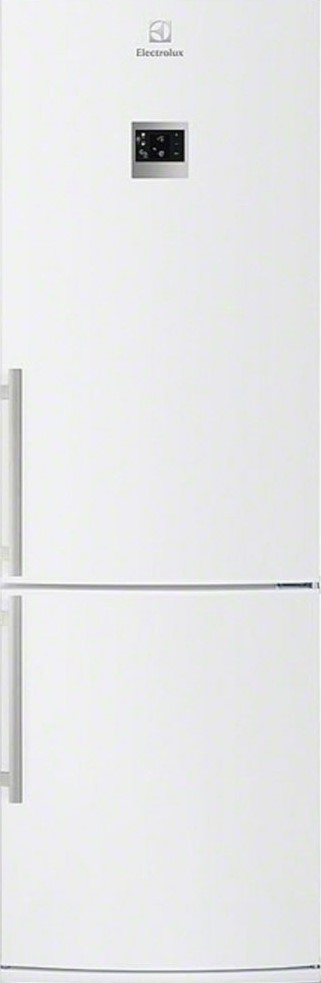
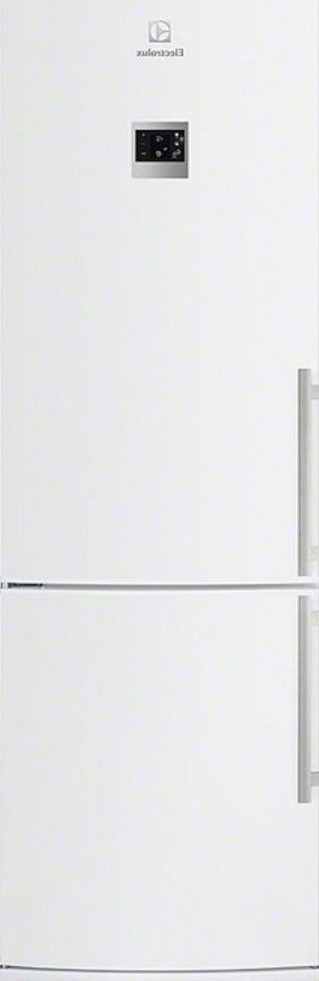
2 варианта размещения кухни

diff --git a/src/index.html b/src/index.html
@@ -38,7 +38,7 @@
             <a-camera id="camera" position="0 0 0"></a-camera>
         </a-entity>
 
-        <a-plane id="floor" rotation="-90 0 0" position="535 0 -325" width="1500" height="1500" material="src: #floorImg; repeat: 100 100"></a-plane>
+        <a-plane id="floor" rotation="-90 0 0" position="535 0 -325" width="1500" height="1500" material="src: #floorImg; repeat: 50 50"></a-plane>
         <!--<a-plane id="ceiling" rotation="-90 0 0" position="0 270 0" width="10000" height="10000" material="color: white"></a-plane>-->
         <a-entity id="rooms" position="0 135 0">
             <a-entity id="hall" position="0 0 0">
@@ -89,27 +89,48 @@
                     <a-image src="#radiator" width="65" height="65" position="0 -95 0"></a-image>
                 </a-entity>
 
-                <a-entity position="0 0 -60">
-                    <!--зазор между стенкой холодильника и стеной сейчас 15см-->
+                <!--Холодильник справа-->
+                <!--столешница 245 см, рабочая зона 105 см (245-60-60-20)-->
+                <!--<a-entity position="0 0 -60">
                     <a-entity geometry="primitive: box; width: 60; depth: 60; height: 180" position="30 -45 -335" material="src: #refrigerator"></a-entity>
-                    <!--дверца холодильника-->
-                    <!--<a-entity geometry="primitive: box; width: 60; depth: 2; height: 180" position="90 -45 -364" material="color: white"></a-entity>-->
                     <a-entity geometry="primitive: box; width: 2; depth: 14.5; height: 180" position="59 -45 -372.75" material="color: white"></a-entity>
                     <a-entity geometry="primitive: box; width: 2; depth: 75; height: 40" position="59 65 -342.5" material="color: white"></a-entity>
                     <a-entity geometry="primitive: box; width: 60; depth: 380; height: 50" position="30 110 -190" material="color: white"></a-entity>
-                    <a-entity geometry="primitive: box; width: 60; depth: 70; height: 220" position="30 -25 -35" material="color: white">
-                        <a-image src="#microwave" width="70" height="40" position="30.5 18 0" rotation="0 90 0"></a-image>
-                        <a-image src="#oven" width="70" height="60" position="30.5 -32 0" rotation="0 90 0"></a-image>
+                    <a-entity geometry="primitive: box; width: 60; depth: 60; height: 220" position="30 -25 -30" material="color: white">
+                        <a-image src="#microwave" width="60" height="40" position="30.5 -10 0" rotation="0 90 0"></a-image>
+                        <a-image src="#oven" width="60" height="60" position="30.5 40 0" rotation="0 90 0"></a-image>
                     </a-entity>
                     <a-entity geometry="primitive: box; width: 16; depth: 60; height: 270" position="52 0 30" material="color: white"></a-entity>
-                    <a-entity geometry="primitive: box; width: 60; depth: 235; height: 80" position="30 -95 -187.75" material="color: white"></a-entity>
-                    <a-entity geometry="primitive: box; width: 63; depth: 235; height: 3" position="30 -54 -187.75" material="color: #cf9a63"></a-entity>
-                    <a-entity geometry="primitive: box; width: 35; depth: 235; height: 75" position="17.5 47 -187.75" material="color: #cf9a63"></a-entity>
-                    <a-entity geometry="primitive: box; width: 60; depth: 235; height: 1" position="30 85 -187.75" material="color: #cf9a63"></a-entity>
-                    <a-entity geometry="primitive: box; width: 60; depth: 1; height: 140" position="30 15 -70" material="color: #cf9a63"></a-entity>
+                    <a-entity geometry="primitive: box; width: 60; depth: 245; height: 80" position="30 -95 -182.75" material="color: white"></a-entity>
+                    <a-entity geometry="primitive: box; width: 63; depth: 245; height: 3" position="30 -54 -182.75" material="color: #cf9a63"></a-entity>
+                    <a-entity geometry="primitive: box; width: 35; depth: 245; height: 75" position="17.5 47 -182.75" material="color: #cf9a63"></a-entity>
+                    <a-entity geometry="primitive: box; width: 60; depth: 245; height: 1" position="30 85 -182.75" material="color: #cf9a63"></a-entity>
+                    <a-entity geometry="primitive: box; width: 60; depth: 1; height: 140" position="30 15 -60" material="color: #cf9a63"></a-entity>
                     <a-entity geometry="primitive: box; width: 60; depth: 1; height: 140" position="30 15 -305" material="color: #cf9a63"></a-entity>
-                    <a-image src="#hob" width="60" height="60" position="30 -52 -120" rotation="-90 0 0"></a-image>
-                    <a-image src="#sink" width="45" height="60" position="35 -52 -270" rotation="-90 0 0"></a-image>
+                    <a-image src="#hob" width="60" height="60" position="30 -52 -110" rotation="-90 0 0"></a-image>
+                    <a-image src="#sink" width="45" height="60" position="35 -52 -272.5" rotation="-90 -180 0"></a-image>
+                </a-entity>-->
+
+                <!--Холодильник слева-->
+                <!--столешница 255 см, рабочая зона 115 см (255-60-60-20)-->
+                <a-entity position="0 0 0">
+                    <a-entity geometry="primitive: box; width: 16; depth: 60; height: 270" position="52 0 -30" material="color: white"></a-entity>
+                    <a-entity geometry="primitive: box; width: 60; depth: 60; height: 180" position="30 -45 -90" material="src: #refrigerator"></a-entity>
+                    <a-entity geometry="primitive: box; width: 2; depth: 60; height: 40" position="59 65 -90" material="color: white"></a-entity>
+                    <a-entity geometry="primitive: box; width: 60; depth: 380; height: 50" position="30 110 -250" material="color: white"></a-entity>
+                    <a-entity geometry="primitive: box; width: 35; depth: 255; height: 75" position="17.5 47 -247.5" material="color: #cf9a63"></a-entity>
+                    <a-entity geometry="primitive: box; width: 63; depth: 255; height: 3" position="30 -54 -247.5" material="color: #cf9a63">
+                        <a-image src="#sink" width="45" height="60" position="5 2 95" rotation="-90 0 0"></a-image>
+                        <a-image src="#hob" width="60" height="60" position="0 2 -77.5" rotation="-90 0 0"></a-image>
+                    </a-entity>
+                    <a-entity geometry="primitive: box; width: 60; depth: 255; height: 80" position="30 -95 -247.5" material="color: white"></a-entity>
+                    <a-entity geometry="primitive: box; width: 60; depth: 65; height: 220" position="30 -25 -407.5" material="color: white">
+                        <a-image src="#microwave" width="60" height="40" position="30.5 -10 2.5" rotation="0 90 0"></a-image>
+                        <a-image src="#oven" width="60" height="60" position="30.5 40 2.5" rotation="0 90 0"></a-image>
+                    </a-entity>
+                    <a-entity geometry="primitive: box; width: 60; depth: 255; height: 1" position="30 85 -247.5" material="color: #cf9a63"></a-entity>
+                    <a-entity geometry="primitive: box; width: 60; depth: 1; height: 140" position="30 15 -120" material="color: #cf9a63"></a-entity>
+                    <a-entity geometry="primitive: box; width: 60; depth: 1; height: 140" position="30 15 -375" material="color: #cf9a63"></a-entity>
                 </a-entity>
 
                 <a-entity position="125 55 -244">

diff --git a/src/js/menu.js b/src/js/menu.js
@@ -1,6 +1,6 @@
 const buttonMap = new Map([
     ['toHall', { camera: { position: '160 0 -30', rotation: '0 350 0' }, roomId: 'hall' }],
-    ['toKitchen', { camera: { position: '195 0 -438', rotation: '-5 -266 0' }, roomId: 'kitchen' }],
+    ['toKitchen', { camera: { position: '230 0 -438', rotation: '-5 -266 0' }, roomId: 'kitchen' }],
     ['toBedroom', { camera: { position: '880 0 -417', rotation: '-16 450 0' }, roomId: 'bedroom' }],
     ['toChildroom', { camera: { position: '910 0 -60', rotation: '-10 270 0' }, roomId: 'childroom' }],
     ['toBathroom', { camera: { position: '570 0 -17', rotation: '-27 553 0' }, roomId: 'bathroom', hideFloor: true }],
